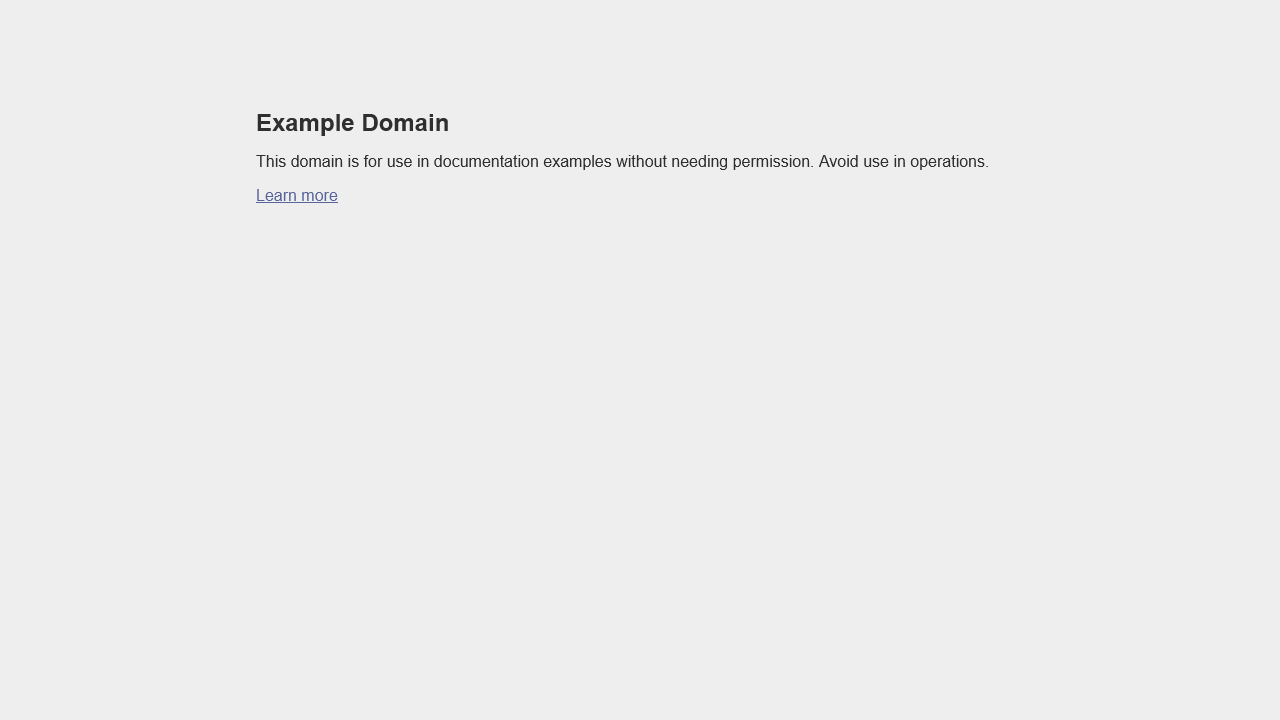
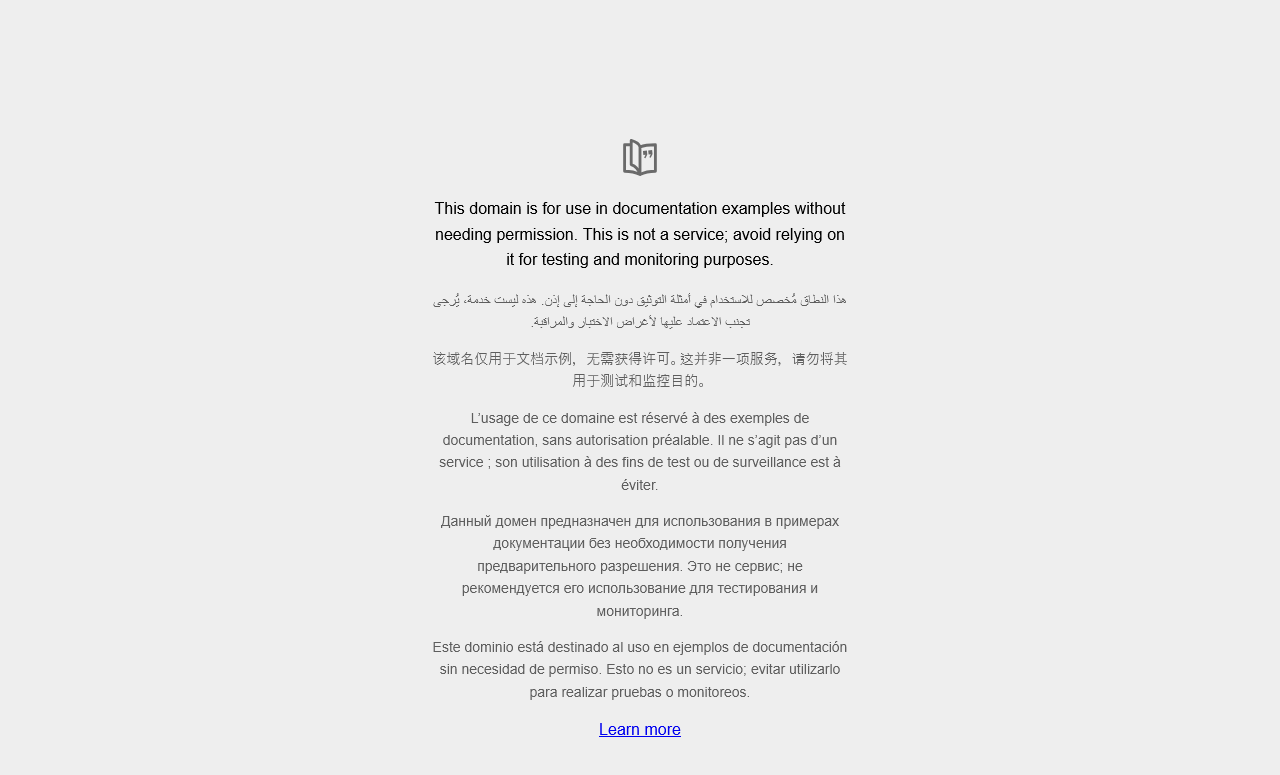
59: Parametrized Jenkins Build

diff --git a/tests/visual/visual.spec.ts b/tests/visual/visual.spec.ts
@@ -16,7 +16,7 @@ test.describe.parallel.only("Visual Regression Testing Example", () => {
         expect(await pageElement.screenshot()).toMatchSnapshot("page-element-english.png")
     })
 
-    test("Single Element Snapshot Wikipedia", async ({ page }) => {
+    test.skip("Single Element Snapshot Wikipedia", async ({ page }) => {
         await page.goto("https://en.wikipedia.org/wiki/Wikipedia")
         const pageElementWikipedia = await page.$("h1")
         expect(await pageElementWikipedia.screenshot()).toMatchSnapshot("page-table-wikipedia.png")

diff --git a/tests/example.spec.ts b/tests/example.spec.ts
@@ -70,7 +70,7 @@ test("Assertions @myTag", async ({ page }) => {
 })
 })
 
-test.describe.parallel.only("Hooks", () => {
+test.describe.parallel("Hooks", () => {
   test.beforeEach(async ({ page }) => {
     await page.goto('https://example.com/')
   })
